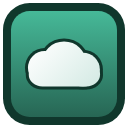
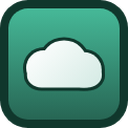
Release 2.0.1
Bumps the version from 2.0 to 2.0.1 and replaces README's What's New with
this version's notes. What 2.0.1 ships:

- Settings and excluded words changed just before the studio closed are
  saved (pending debounced writes are flushed on visibilitychange and
  pagehide; merged earlier on master).
- icons/icon128.png is the repo icon scaled to fill its 128px square
  (backlog D2/D3). The uploaded store icon had drifted from it - a
  jaggier, resampled copy - so the store icon is replaced with this same
  file, and the two now match. icon16 already filled its square; icon48
  keeps its 1px edge, which scaling 46->48 would only blur.

Checked in headless Chromium: popup and studio load without errors, a
cloud generates, and settings survive a close within the debounce.

Changed region(s): [[0.0, 0.0, 1.0, 1.0], [0.1562, 0.2812, 0.8438, 0.7188]]

diff --git a/README.md b/README.md
@@ -1,9 +1,7 @@
-## What's New in 2.0
+## What's New in 2.0.1
 
-- **Word Cloud Studio:** a full-page workspace with a much bigger preview. Open it from the toolbar icon.
-- **See every word:** a list shows each word in the cloud and how often it appears.
-- **Remove the words you don't want:** click × to drop a word, or add your own words to exclude. Put any of them back at any time.
-- **More ways to style it:** new colour schemes and backgrounds, circle and heart shapes, and word limits above 50.
+- **Your settings are always saved.** A word you removed or a setting you changed just before closing the studio is now kept.
+- **Sharper icon** that fills its square, and now matches the one in the Chrome Web Store.
 
 ## Key Features
 
